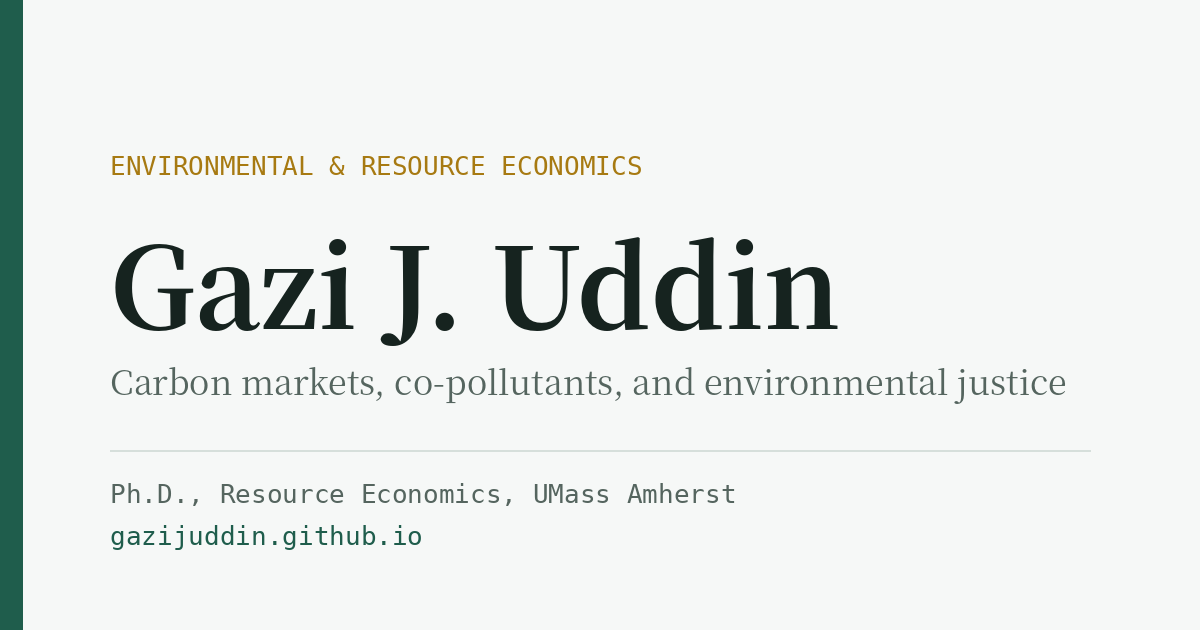
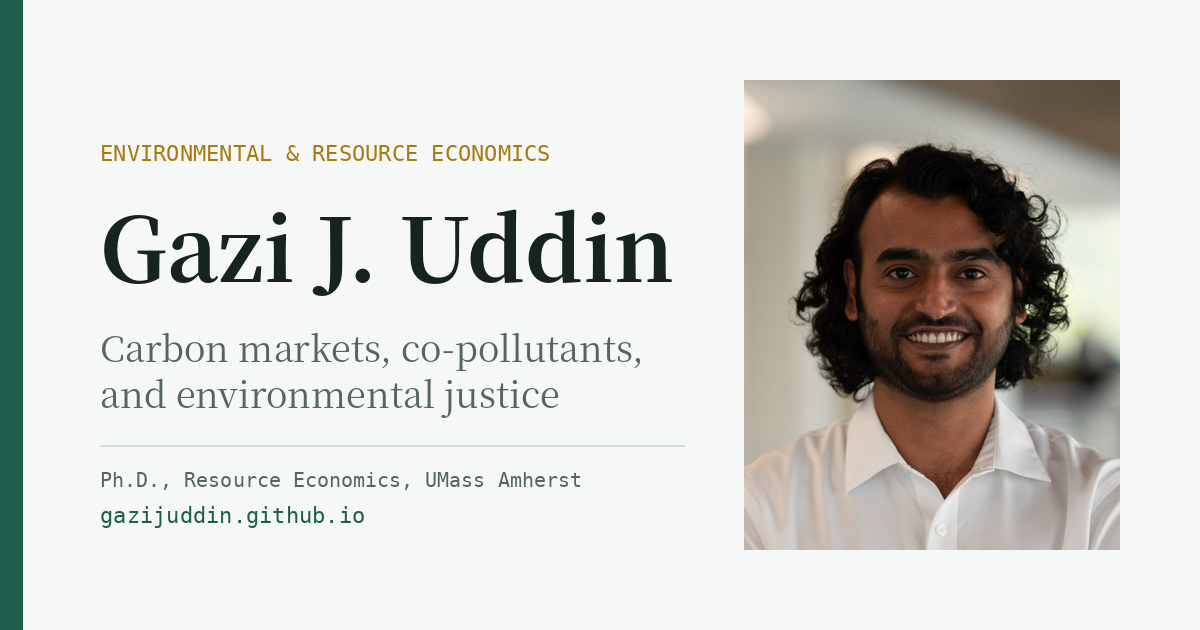
Add headshot to page and link-preview card
Claude-Session: https://claude.ai/code/session_016RX6ggrcD2irEHHwqMrHxo

Changed region(s): [[0.0617, 0.1206, 0.9558, 0.8746], [0.0617, 0.754, 0.4933, 0.8746], [0.0925, 0.2111, 0.555, 0.3016]]

diff --git a/index.html b/index.html
@@ -69,6 +69,8 @@ a:focus-visible, button:focus-visible{outline:2px solid var(--accent); outline-o
 /* Identity column */
 .id{align-self:start; position:sticky; top:calc(env(safe-area-inset-top,0px) + 2rem); display:flex; flex-direction:column; gap:1.5rem}
 @media (max-width:820px){ .id{position:static} }
+.portrait{display:block; width:100%; max-width:15rem; height:auto; aspect-ratio:4/5; object-fit:cover; border-radius:3px; background:var(--rule)}
+@media (max-width:820px){ .portrait{max-width:10rem} }
 .mono{font-family:var(--font-mono); font-size:var(--s-1); letter-spacing:.02em}
 .kicker{color:var(--muted); text-transform:uppercase; letter-spacing:.09em; font-size:.75rem}
 h1{font-family:var(--font-display); font-weight:600; font-size:var(--s4); line-height:1.05; margin:0; text-wrap:balance; font-optical-sizing:auto; letter-spacing:-.01em}
@@ -146,6 +148,7 @@ sub{font-size:.7em; line-height:0}
 
 <div class="wrap">
   <aside class="id">
+    <img class="portrait" src="headshot.jpg" width="560" height="700" alt="Portrait of Gazi J. Uddin">
     <div style="display:flex;flex-direction:column;gap:.75rem">
       <span class="kicker mono">Environmental &amp; Resource Economics</span>
       <h1>Gazi J. Uddin</h1>
